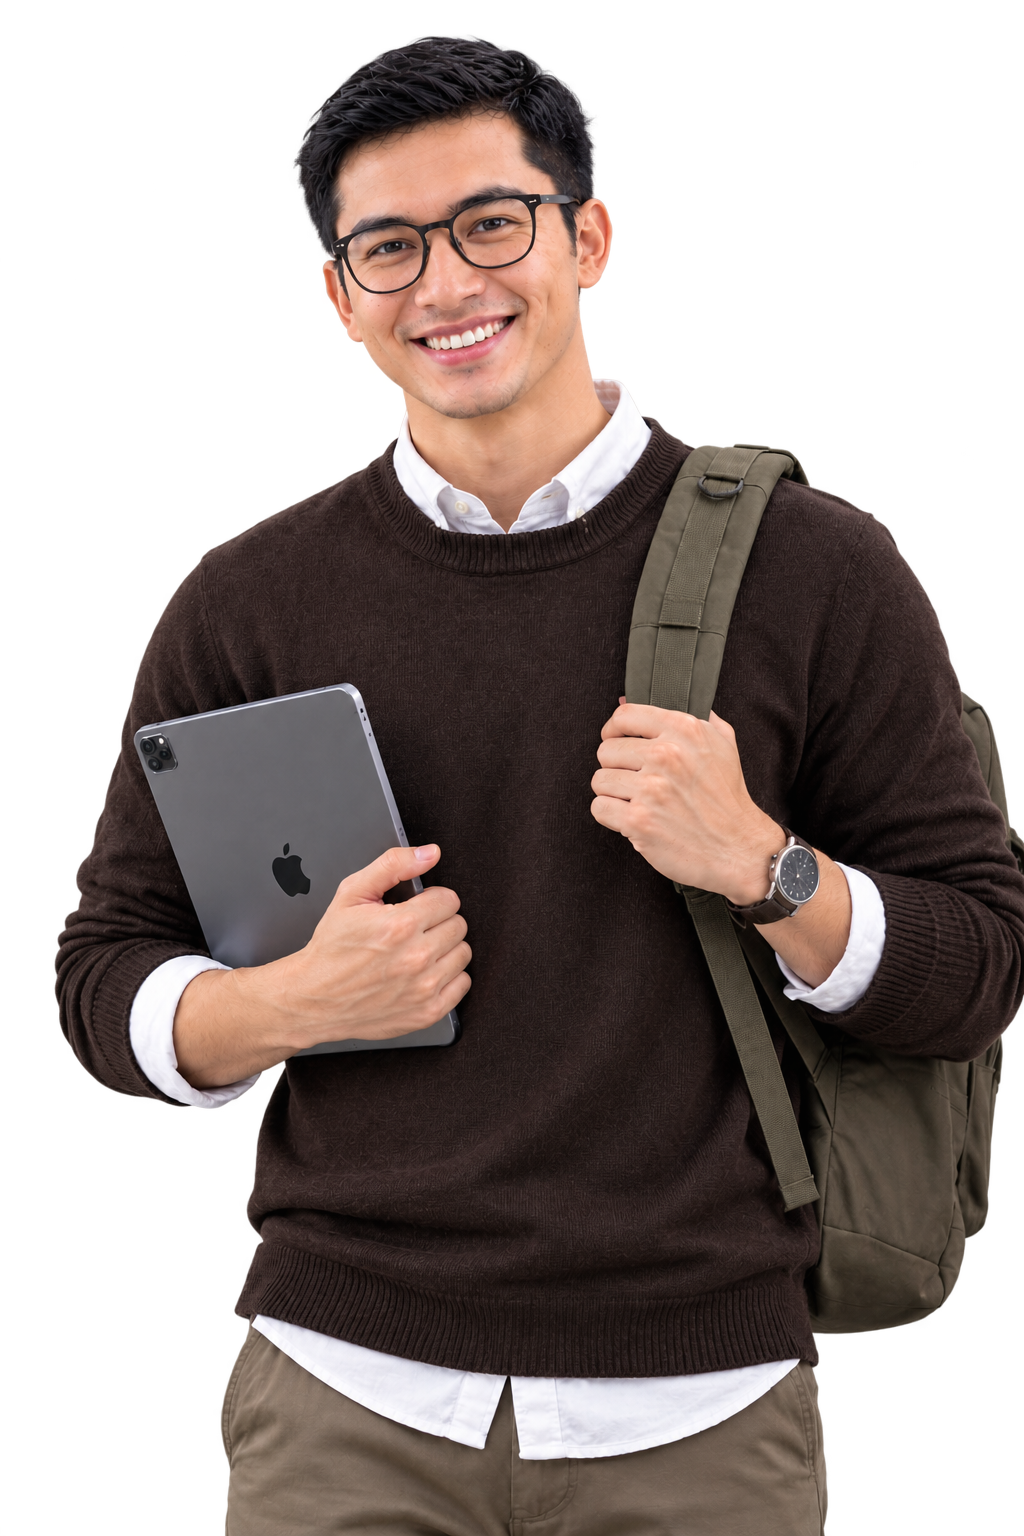
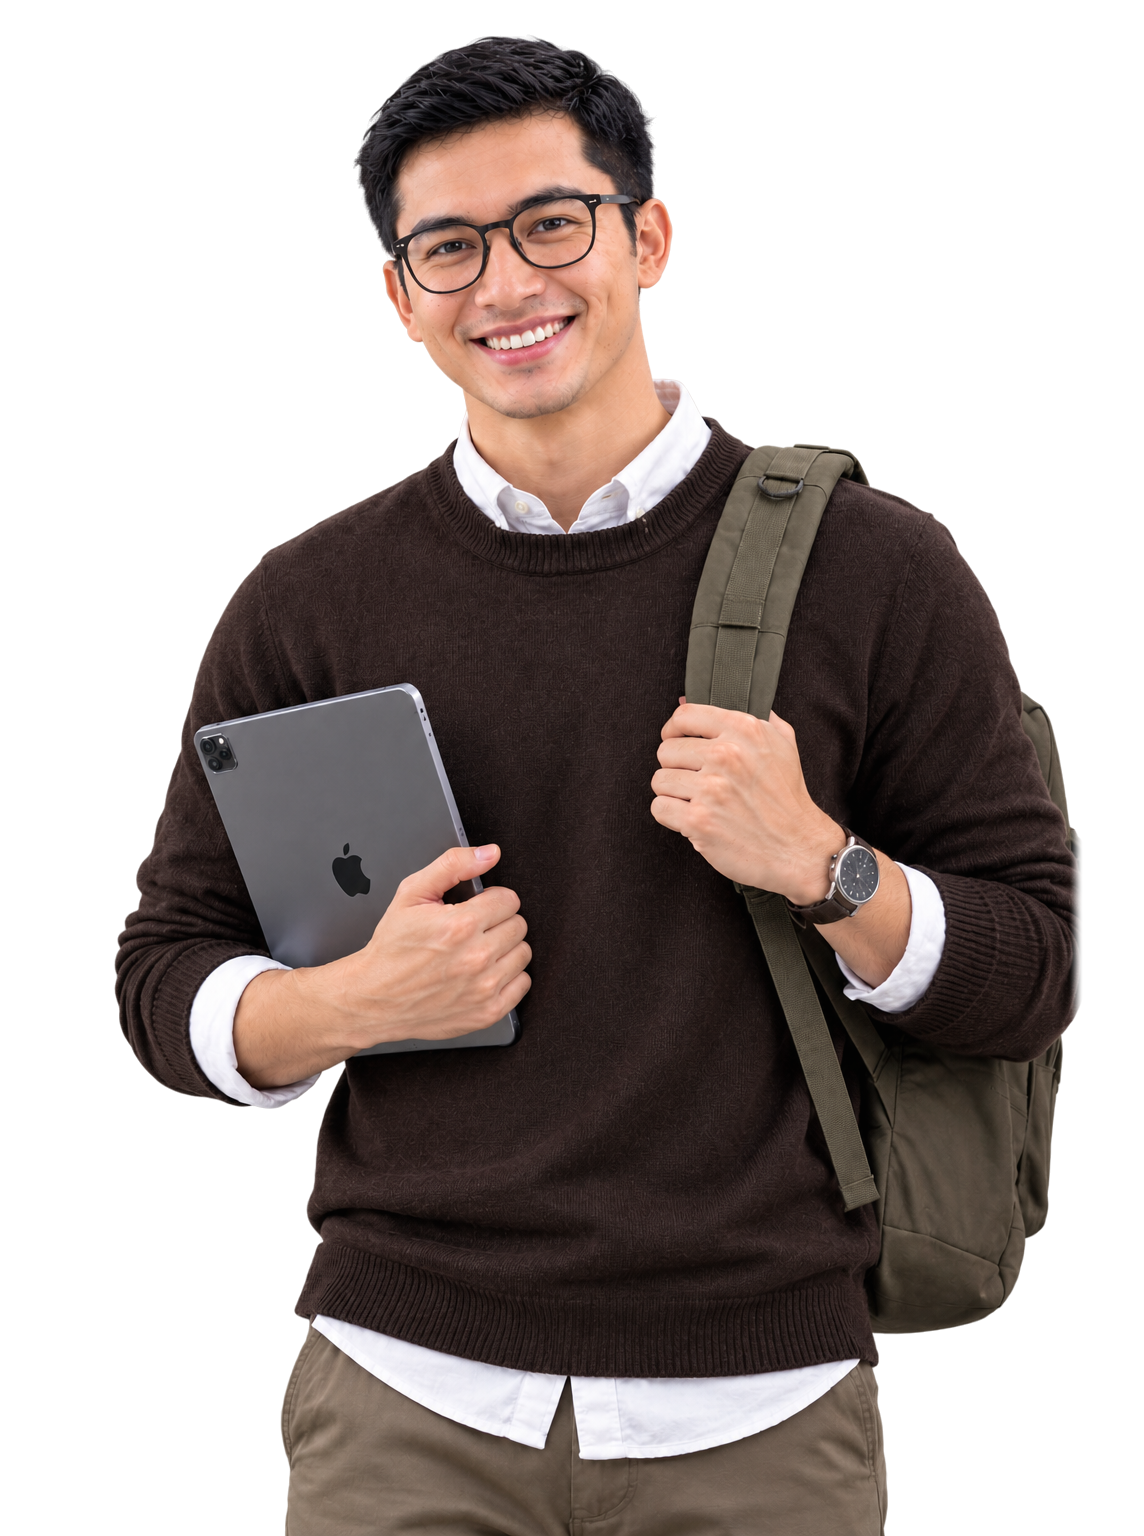
fix(hero): eliminate cut-off shadow artifacts behind hero student image
- clean transparent alpha noise (alpha < 8) across siswa.png that previously cast rectangular border drop-shadows
- expand transparent canvas padding and feather backpack right edge so shadow does not hit image borders
- switch .blackbox-hero-media overflow from hidden to visible
- adjust hero-student-glow and drop-shadow to soft ambient diffuse falloff for light & dark themes

diff --git a/lms-web/src/app/globals.css b/lms-web/src/app/globals.css
@@ -969,7 +969,7 @@ button {
   height: 100%;
   margin-bottom: 0;
   line-height: 0;
-  overflow: hidden;
+  overflow: visible;
 }
 
 .hero-student-glow {
@@ -977,7 +977,7 @@ button {
   bottom: 0;
   left: 50%;
   transform: translateX(-50%);
-  width: 100%;
+  width: 120%;
   height: 90%;
   background: radial-gradient(ellipse at bottom center, var(--bx-blue-glow) 0%, transparent 70%);
   pointer-events: none;
@@ -986,7 +986,7 @@ button {
 }
 
 [data-theme="light"] .hero-student-glow {
-  background: radial-gradient(ellipse at bottom center, rgba(0, 96, 223, 0.16) 0%, transparent 70%);
+  background: radial-gradient(ellipse at bottom center, rgba(201, 150, 46, 0.18) 0%, transparent 70%);
 }
 
 .hero-student-img-direct {
@@ -1002,8 +1002,12 @@ button {
   margin-bottom: 0;
   position: relative;
   z-index: 1;
-  filter: drop-shadow(0 24px 48px rgba(0, 0, 0, 0.32));
+  filter: drop-shadow(0 16px 28px rgba(10, 46, 82, 0.14));
   transition: transform 0.3s cubic-bezier(0.16, 1, 0.3, 1);
+}
+
+[data-theme="dark"] .hero-student-img-direct {
+  filter: drop-shadow(0 20px 36px rgba(0, 0, 0, 0.55));
 }
 
 .hero-student-img-direct:hover {
